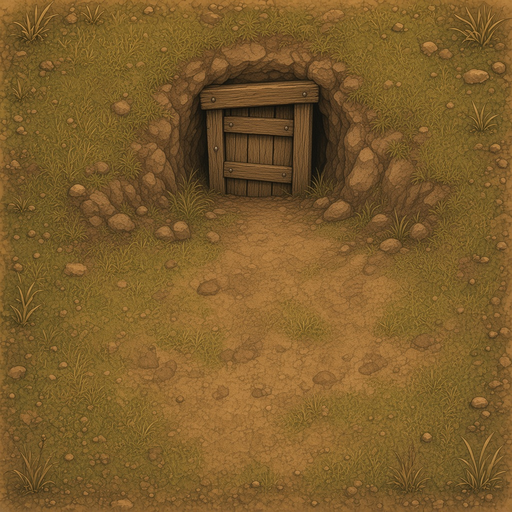
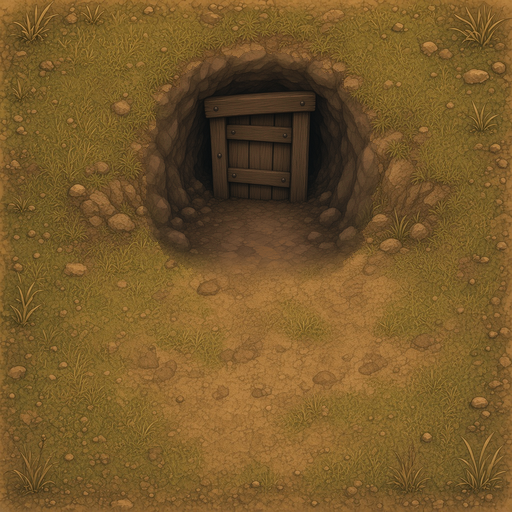
Darken the closed mine-door tiles, and note snow days pausing growth.

Changed region(s): [[0.2812, 0.0938, 0.75, 0.5312]]

diff --git a/docs/ROADMAP.md b/docs/ROADMAP.md
@@ -36,3 +36,7 @@ Parked items and leftovers from the design docs (`docs/plan-hills-and-mine.md`, 
 - Open questions from granular growth: mixed jam berries, fertilizer prices after a season of play, and the pack stack cap.
 - Winter market stall or special order board that occasionally buys a cooked meal.
 - Rune system: runestone ore from the mine can be carved and imbued (ore + a runestone) to (1) enchant tools (Bounty = +1 yield, Shatter = splash), (2) waystones — attune a cleared tile (rocks and items removed) with transcribed runes and teleport back to it for a small energy cost, replacing the removed elevator, and (3) a homeward rune at high levels (teleport home).
+
+## Idea: snow days pause plant growth (Rick, 2026-11-26)
+- On snow days, crops don't advance a growth stage (growth is paused, not lost).
+- Open questions: does watering still count/carry over? Do greenhouse or indoor plants ignore it? Show a "snowed in — growth paused" note on affected tiles.
